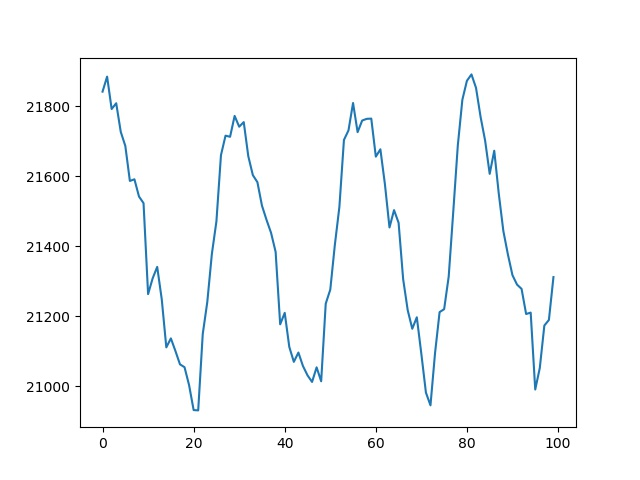
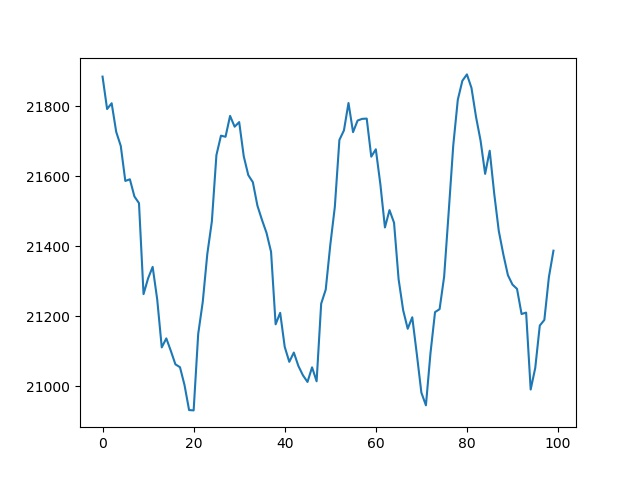
'auto'

Changed region(s): [[0.1875, 0.1562, 0.875, 0.875], [0.1562, 0.1562, 0.1875, 0.2812]]

diff --git a/README.md b/README.md
@@ -1,5 +1,5 @@
 Frizider live: 5
-21312.09166666667 
+21387.375 
 1
 Temperatura:
 
